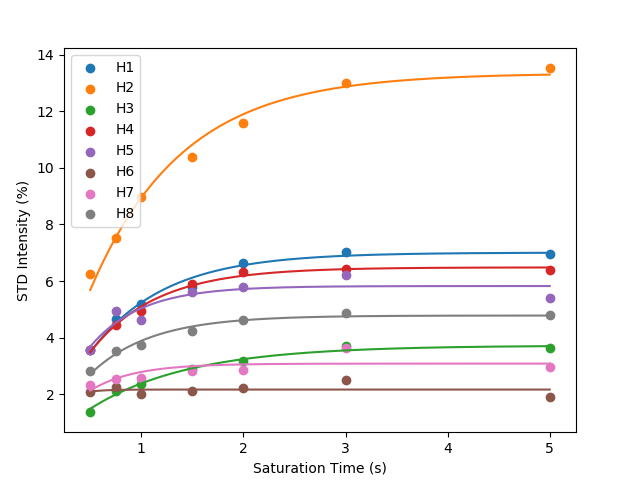
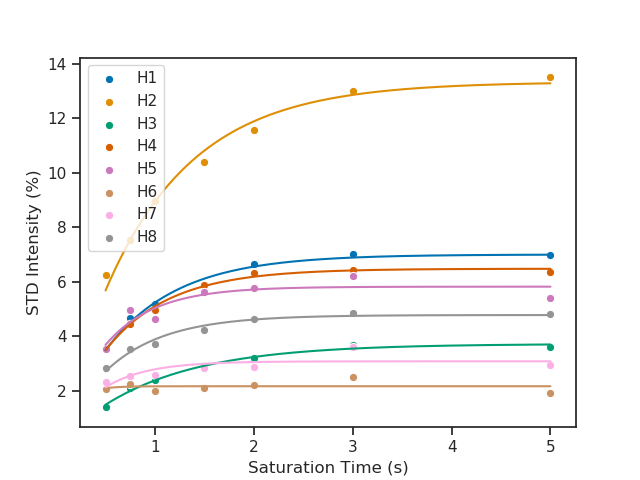
add plot curves method

Changed region(s): [[0.0625, 0.5, 0.9062, 1.0], [0.0312, 0.0938, 0.9062, 0.6562]]

diff --git a/std-fit.py b/std-fit.py
@@ -2,13 +2,14 @@
 STD NMR Build Up Curve Solver
 Written by Sam Walpole
 sam@samwalpole.com
-v1.0.2 7/12/18
+v1.2.0 7/12/18
 '''
 
 from math import exp
 import numpy as np
 from scipy.optimize import minimize
 import matplotlib.pyplot as plt
+import seaborn as sns
 
 
 
@@ -172,28 +173,51 @@ def calc_build_up_curve(std_max, k_sat, t_sats):
     #calculate std value for given t sat
     std = np.vectorize(lambda t_sat:std_max * (1 - exp(-1 * k_sat * t_sat)))
     return std(t_sats)
+    
+    
+    
+def plot_curves(exp_tsats, exp_stds, pred_tsats, pred_stds, labels, fname='build_up_curves'):
+    '''
+    Take experimental and predicted stds and t_sats and plot them as a graph to file
+    
+    Keyword arguments:
+    exp_tsats -- 1D array containing saturation times used in the experiment (array(float))
+    exp_stds -- 2D array with rows containing experimental STD build up curves (ndarray(float))
+    pred_tsats -- 1D array containing smoothed t_sats used in curve prediction (array(float))
+    pred_stds -- 2D array with rows containing predicted STD build up curves (ndarray(float))
+    labels -- 1D array with labels for each row of stds (array(str)
+    fname -- name of file to save figure to (str)
+    '''
+    
+    sns.set_context('notebook')
+    sns.set_style('ticks')
+    sns.set_palette('colorblind')
+        
+    def plot(exp_tsats, exp_stds, pred_tsats, pred_stds, labels):
+        
+        #plot the predicetd values as a smooth line
+        sns.lineplot(pred_tsats, pred_stds[0])
+        
+        #plot the experimental values as points
+        #remove zero values from plot
+        sns.scatterplot(exp_tsats[exp_stds[0] != 0], exp_stds[0, exp_stds[0] != 0], label=labels[0]) #TODO remove zero points
+        
+        #recursively plot graphs
+        if(len(exp_stds) == 1):
+            return
+        return plot(exp_tsats, exp_stds[1:], pred_tsats, pred_stds[1:], labels[1:])
+        
+    plot(exp_tsats, exp_stds, pred_tsats, pred_stds, labels)
+    
+    plt.legend(loc='best')
+    plt.xlabel('Saturation Time (s)')
+    plt.ylabel('STD Intensity (%)')
+    plt.savefig(fname + '.png')    
 
 
 
 titles, exp_stds = parse_input('inputs.csv')
 predicted_stds = solve_build_up_curves(exp_stds[0], exp_stds[1:])
 
+plot_curves(exp_stds[0], exp_stds[1:], predicted_stds[0], predicted_stds[1:], titles)
 
-
-fig = plt.figure()
-ax = fig.add_axes([0.1,0.1,0.8,0.8])
-
-#for each build up curve
-for i,curve in enumerate(exp_stds[1:]):
-    
-    #plot the predicetd values as a smooth line
-    ax.plot(predicted_stds[0], predicted_stds[i+1])
-    
-    #plot the experimental values as points
-    #remove zero values from plot
-    ax.scatter(exp_stds[0, curve != 0], curve[curve != 0], label=titles[i])
-
-ax.legend(loc='best')
-ax.set_xlabel('Saturation Time (s)')
-ax.set_ylabel('STD Intensity (%)')
-fig.savefig('build_up_curves.png')
